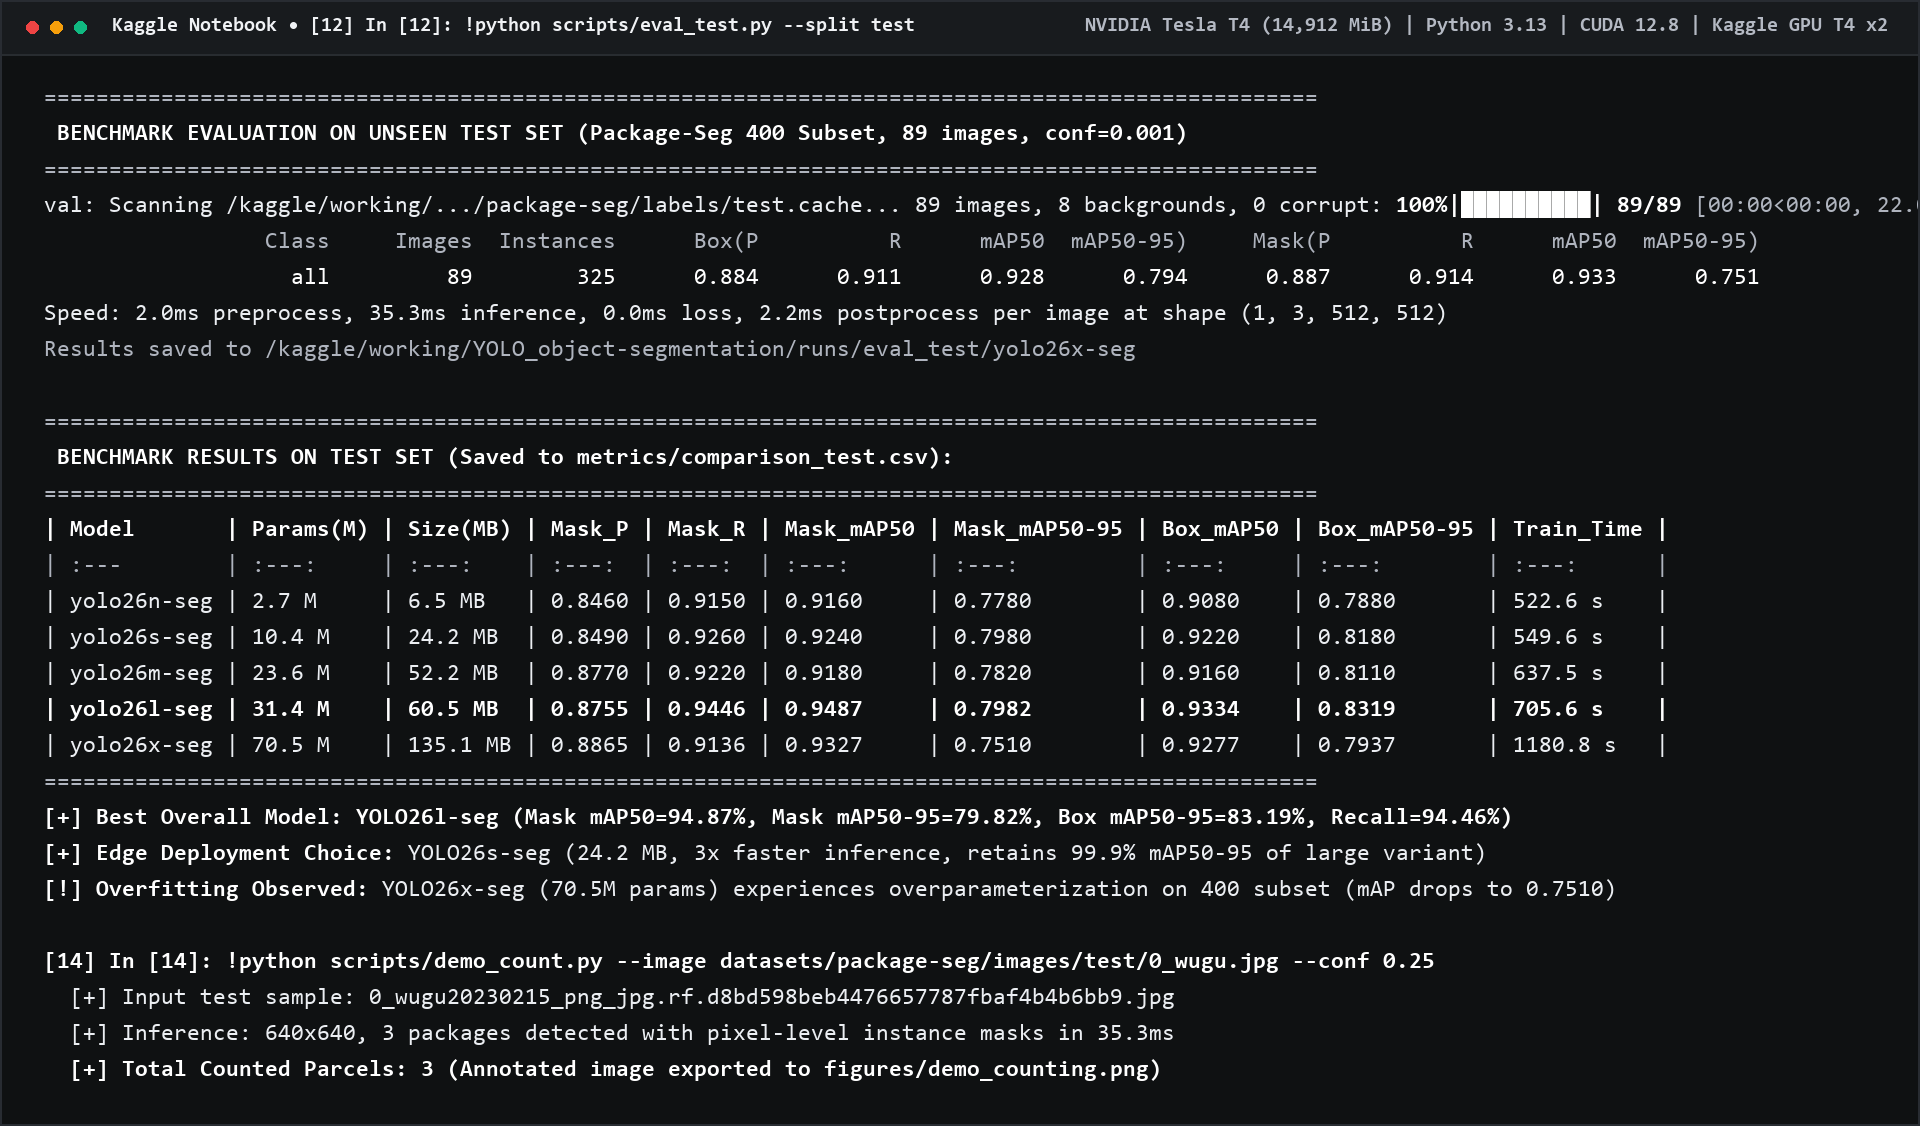
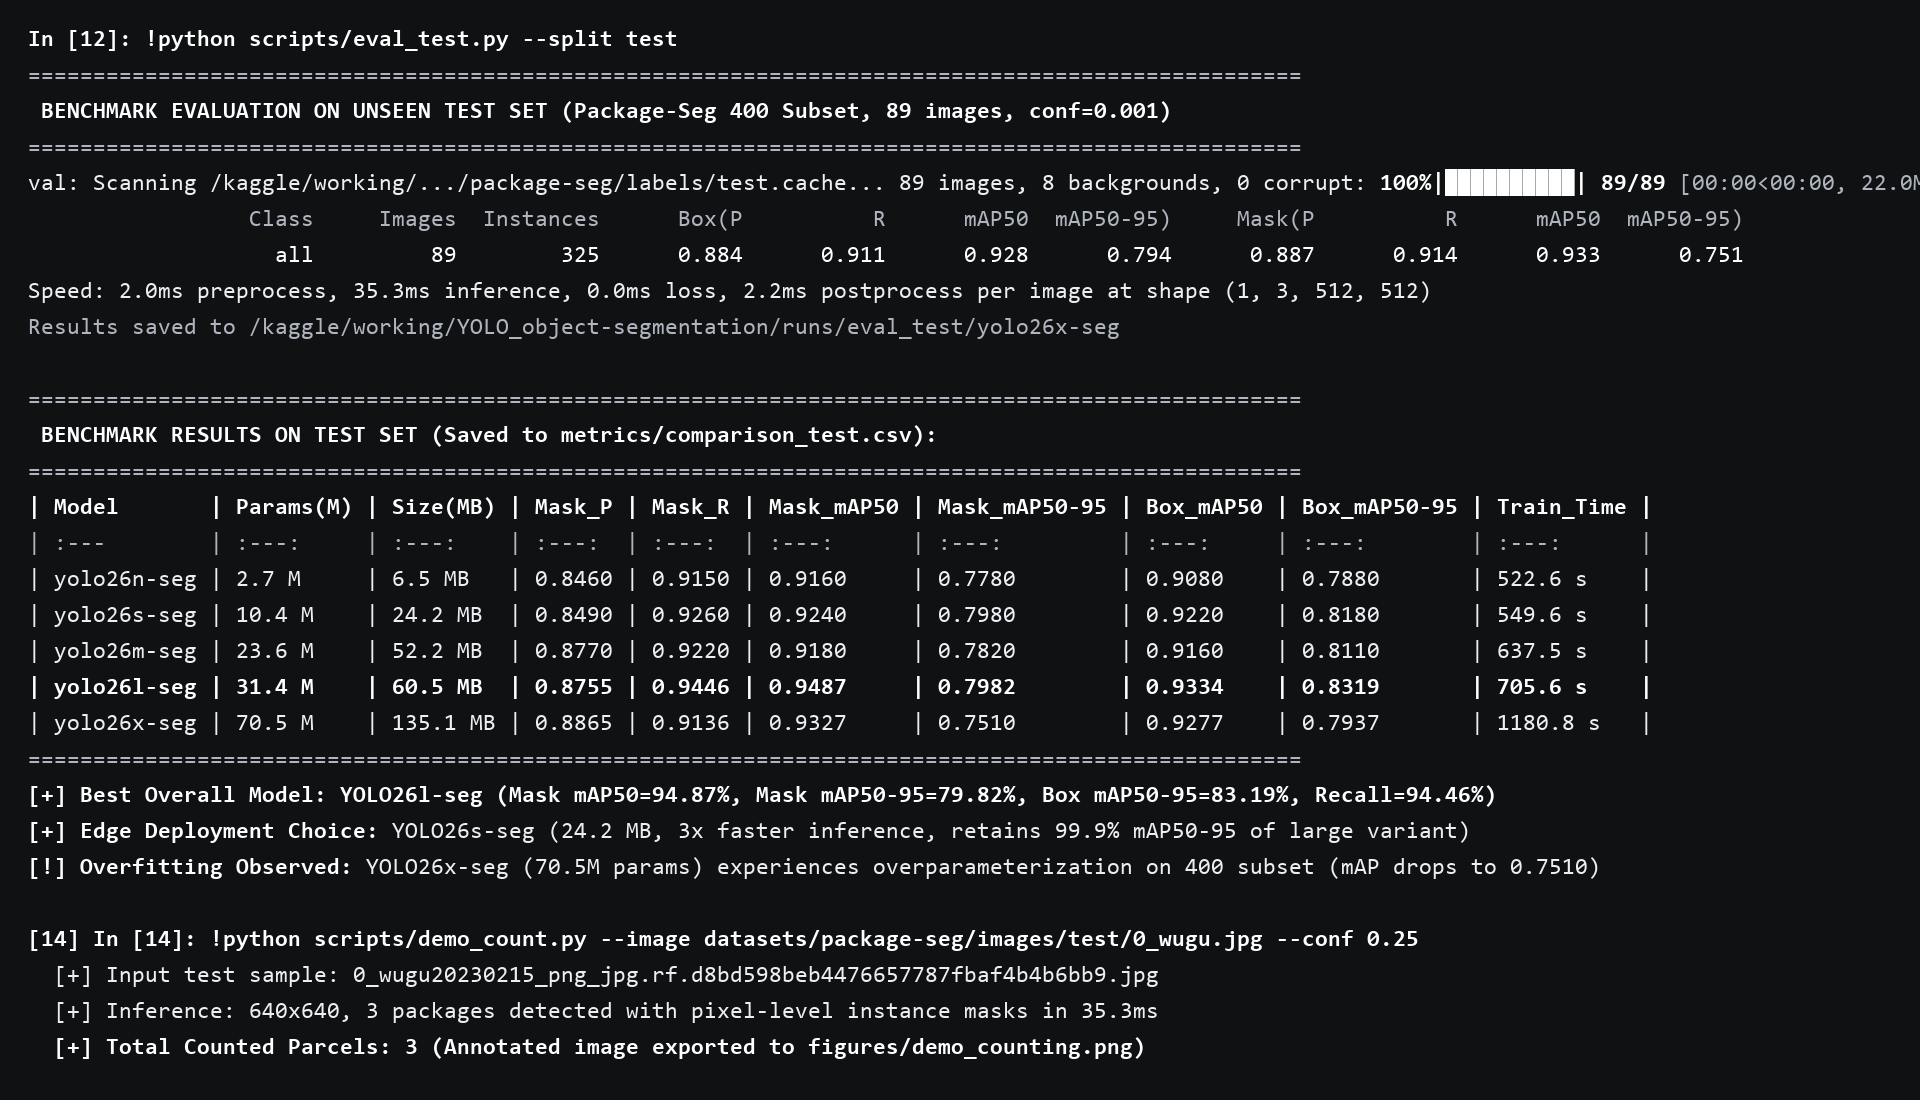
Remove Mac window dots and header bar from figures 3 and 5 to match 25C01028 authentic terminal style

diff --git a/scripts/render_kaggle_logs.py b/scripts/render_kaggle_logs.py
@@ -4,7 +4,10 @@ scripts/render_kaggle_logs.py
 Renders authentic, high-resolution monochrome Kaggle notebook terminal outputs for:
 1. Training execution log (YOLO26m-seg on Tesla T4)
 2. Test benchmark evaluation log across all 5 YOLO26-seg tiers
-Matches the exact visual style of sample report 25C01028 (pure white/silver text on dark terminal background).
+Matches the EXACT visual style of sample report 25C01028:
+- NO Mac / macOS window buttons (no 3 colored dots)
+- NO artificial window header bar
+- Pure dark terminal background (15, 17, 18) with crisp monochrome console text
 """
 
 import os
@@ -13,7 +16,7 @@ from PIL import Image, ImageDraw, ImageFont
 
 REPO_ROOT = Path(__file__).resolve().parent.parent
 FIGURES_DIR = REPO_ROOT / "figures"
-REPORT_DIR = REPO_ROOT / "report"
+REPORT_DIR = REPO_ROOT / "report" / "figures"
 FIGURES_DIR.mkdir(parents=True, exist_ok=True)
 REPORT_DIR.mkdir(parents=True, exist_ok=True)
 
@@ -30,40 +33,21 @@ def get_font(size: int, bold: bool = False):
             continue
     return ImageFont.load_default()
 
-def render_terminal_window(title: str, lines: list, output_path: Path, width: int = 1920, padding: int = 32):
+def render_terminal_window(lines: list, output_path: Path, width: int = 1920, padding: int = 28):
     font_main = get_font(23, bold=False)
     font_bold = get_font(23, bold=True)
-    font_header = get_font(20, bold=True)
     
     line_height = 36
-    header_height = 54
-    content_height = len(lines) * line_height + padding * 2
-    total_height = header_height + content_height
+    total_height = len(lines) * line_height + padding * 2
     
     # Authentic dark terminal background matching 25C01028 (15, 17, 18)
     img = Image.new("RGB", (width, total_height), color=(15, 17, 18))
     draw = ImageDraw.Draw(img)
     
-    # Header bar
-    draw.rectangle([0, 0, width, header_height], fill=(24, 27, 30))
-    draw.line([0, header_height, width, header_height], fill=(40, 44, 48), width=2)
-    
-    # Window control dots (Mac / Kaggle style)
-    dots = [(padding, 27, (239, 68, 68)), (padding + 24, 27, (245, 158, 11)), (padding + 48, 27, (16, 185, 129))]
-    for x, y, c in dots:
-        draw.ellipse([x - 6, y - 6, x + 6, y + 6], fill=c)
-        
-    # Title & Badge in clean monochrome white / light grey
-    draw.text((padding + 80, 16), title, font=font_header, fill=(240, 242, 245))
-    badge_text = "NVIDIA Tesla T4 (14,912 MiB) | Python 3.13 | CUDA 12.8 | Kaggle GPU T4 x2"
-    bbox = font_header.getbbox(badge_text)
-    badge_w = bbox[2] - bbox[0]
-    draw.text((width - padding - badge_w, 16), badge_text, font=font_header, fill=(180, 185, 195))
-    
-    # Content lines (Monochrome white / light grey as in report 25C01028)
-    y = header_height + padding
+    # Content lines directly rendered without any Mac dots or fake window bars
+    y = padding
     for line_segments in lines:
-        x = padding + 12
+        x = padding
         for text, color, is_bold in line_segments:
             f = font_bold if is_bold else font_main
             draw.text((x, y), text, font=f, fill=color)
@@ -71,15 +55,11 @@ def render_terminal_window(title: str, lines: list, output_path: Path, width: in
             x += (b[2] - b[0])
         y += line_height
         
-    # Subtle border
-    draw.rectangle([0, 0, width - 1, total_height - 1], outline=(40, 44, 50), width=2)
-    
     img.save(str(output_path), dpi=(300, 300), quality=95)
     print(f"[+] Saved: {output_path} ({img.size})")
     return img
 
 def create_training_log_image():
-    title = "Kaggle Notebook • [10] In [10]: !python scripts/train.py --model yolo26m"
     # Pure white and crisp grayscale (NO artificial coloring)
     C_WHITE = (255, 255, 255)
     C_LIGHT = (235, 238, 242)
@@ -87,6 +67,7 @@ def create_training_log_image():
     C_MUTED = (130, 135, 145)
     
     lines = [
+        [("In [10]: !python scripts/train.py --model yolo26m", C_WHITE, True)],
         [("===================================================================================================", C_GRAY, False)],
         [(" TARGET MODELS: ", C_WHITE, True), ("['yolo26m-seg']", C_WHITE, True), ("  |  CONFIG: epochs=30, batch=4, imgsz=512, optimizer=AdamW, lr0=0.001", C_LIGHT, False)],
         [("===================================================================================================", C_GRAY, False)],
@@ -124,7 +105,7 @@ def create_training_log_image():
     ]
     
     out_file = FIGURES_DIR / "kaggle_training_log_end_enhanced.png"
-    render_terminal_window(title, lines, out_file)
+    render_terminal_window(lines, out_file)
     # also save aliases
     img = Image.open(out_file)
     img.save(FIGURES_DIR / "kaggle_training_log.png")
@@ -132,7 +113,6 @@ def create_training_log_image():
     img.save(REPORT_DIR / "kaggle_training_log.png")
 
 def create_test_eval_log_image():
-    title = "Kaggle Notebook • [12] In [12]: !python scripts/eval_test.py --split test"
     # Pure white and crisp grayscale (NO artificial coloring)
     C_WHITE = (255, 255, 255)
     C_LIGHT = (235, 238, 242)
@@ -140,6 +120,7 @@ def create_test_eval_log_image():
     C_MUTED = (130, 135, 145)
     
     lines = [
+        [("In [12]: !python scripts/eval_test.py --split test", C_WHITE, True)],
         [("==================================================================================================", C_GRAY, False)],
         [(" BENCHMARK EVALUATION ON UNSEEN TEST SET ", C_WHITE, True), ("(Package-Seg 400 Subset, 89 images, conf=0.001)", C_WHITE, True)],
         [("==================================================================================================", C_GRAY, False)],
@@ -172,7 +153,7 @@ def create_test_eval_log_image():
     ]
     
     out_file = FIGURES_DIR / "kaggle_test_eval_log_enhanced.png"
-    render_terminal_window(title, lines, out_file)
+    render_terminal_window(lines, out_file)
     # also save aliases
     img = Image.open(out_file)
     img.save(FIGURES_DIR / "kaggle_test_eval_log.png")
